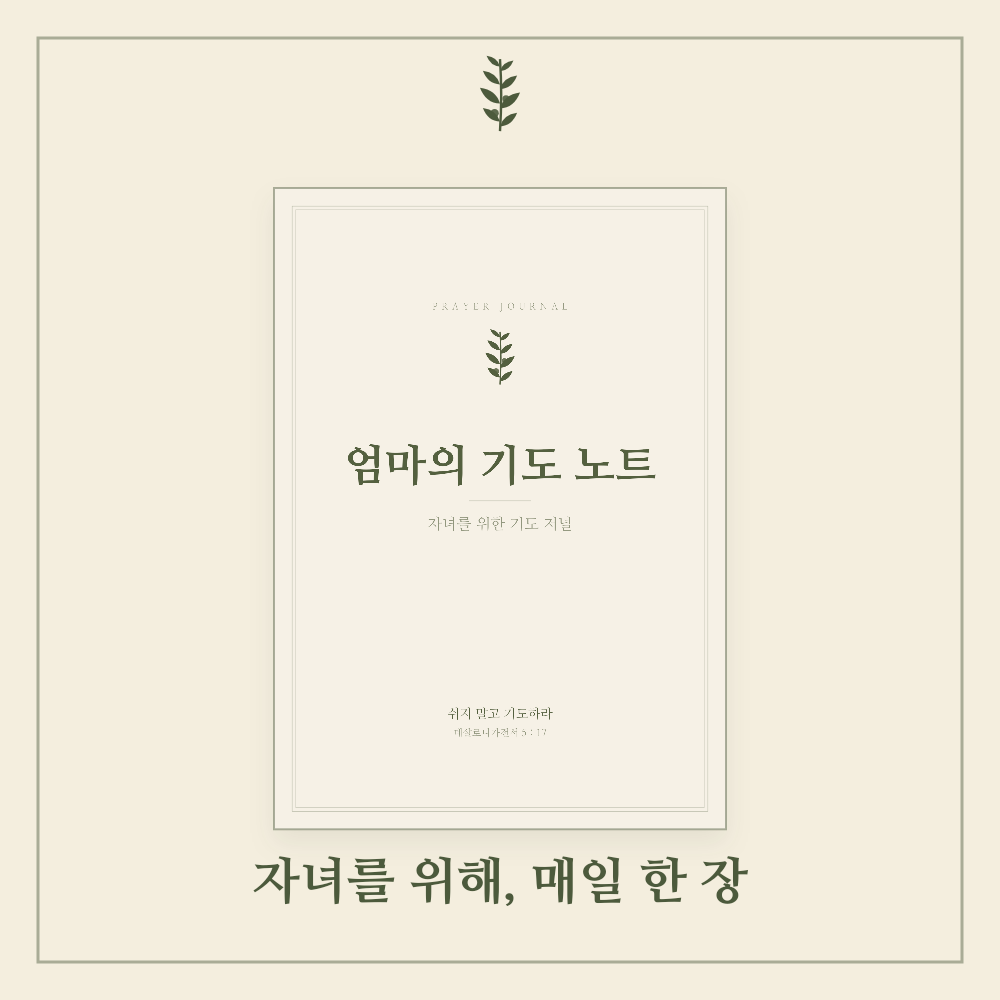
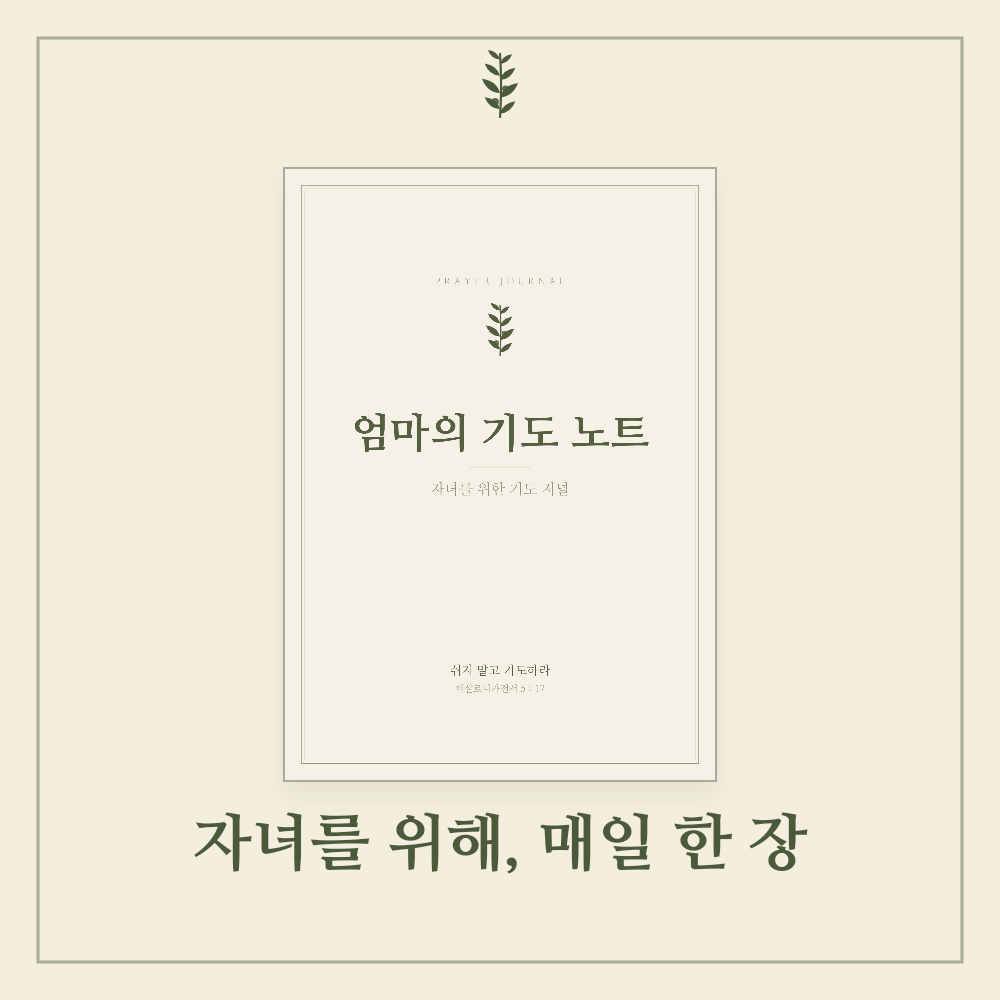
fix(design): 썸네일 v4 — 모바일 가독성 위해 보조 글씨 확대
T1 부제 50→62, T4 요약 35→40·캡션 28→38(짧은 라벨), T5 알약 30→36.
표지 사진은 프레임 안으로 유지. 폰 목록 크기에서도 핵심 텍스트 가독.

diff --git a/assets/bible-journal/generate_thumbs.js b/assets/bible-journal/generate_thumbs.js
@@ -56,9 +56,9 @@ function sprig(x, cx, topY, scale, color) {
   const reading = await loadImage(`${D}/p_reading_ot.png`);
 
   // T1 — 대표 (product hero; title readable on cover)
-  { const { c, x } = P(CREAM); frame(x, 38, 'rgba(76,90,60,0.45)', 3); sprig(x, S / 2, 58, .6, INK);
-    shot(x, cover, S / 2, 188, 452);
-    multi(x, '자녀를 위해, 매일 한 장', S / 2, 868, 50, 'NMX', INK, 60);
+  { const { c, x } = P(CREAM); frame(x, 38, 'rgba(76,90,60,0.45)', 3); sprig(x, S / 2, 52, .54, INK);
+    shot(x, cover, S / 2, 168, 432);
+    multi(x, '자녀를 위해, 매일 한 장', S / 2, 828, 62, 'NMX', INK, 74);
     fs.writeFileSync(`${D}/thumb_1_main.png`, c.toBuffer('image/png')); }
 
   // T2 — 후킹 (deep green, all fresh text, no small cover)
@@ -77,21 +77,21 @@ function sprig(x, cx, topY, scale, color) {
     fs.writeFileSync(`${D}/thumb_3_feature.png`, c.toBuffer('image/png')); }
 
   // T4 — 구성: 페이지 컷 + 각 컷 아래 큰 캡션
-  { const { c, x } = P(PANEL); multi(x, '이 한 권에 담긴 것', S / 2, 86, 56, 'NMX', INK, 70);
-    multi(x, '기도 92편 · 응답 기록 · 통독표 · 약 110p', S / 2, 232, 35, 'NMB', STRONG, 56);
-    const w = 232, gap = 44, total = w * 3 + gap * 2, x0 = (S - total) / 2, ty = 410;
-    const labels = ['자녀를 위한 기도', '기도 응답 기록', '성경 통독표'];
+  { const { c, x } = P(PANEL); multi(x, '이 한 권에 담긴 것', S / 2, 84, 58, 'NMX', INK, 72);
+    multi(x, '기도 92편 · 응답 기록 · 통독표 · 약 110p', S / 2, 240, 40, 'NMB', STRONG, 56);
+    const w = 226, gap = 46, total = w * 3 + gap * 2, x0 = (S - total) / 2, ty = 374;
+    const labels = ['자녀 기도', '응답 기록', '성경 통독표'];
     [daily, log, reading].forEach((im, i) => {
       const cx = x0 + w / 2 + i * (w + gap); const h = shot(x, im, cx, ty, w);
-      multi(x, labels[i], cx, ty + h + 26, 28, 'NMB', INK, 36);
+      multi(x, labels[i], cx, ty + h + 28, 38, 'NMB', INK, 46);
     });
     fs.writeFileSync(`${D}/thumb_4_inside.png`, c.toBuffer('image/png')); }
 
   // T5 — 선물 (cover sized within frame)
   { const { c, x } = P(CREAM); frame(x, 38, 'rgba(76,90,60,0.4)', 3); sprig(x, S / 2, 70, .56, INK);
-    multi(x, '믿음의 엄마에게\n드리는 선물', S / 2, 188, 58, 'NMX', INK, 80);
-    pill(x, '권사님께 · 며느리에게 · 나에게', S / 2, 372, 30, INK, CTXT);
-    shot(x, cover, S / 2, 470, 300);
+    multi(x, '믿음의 엄마에게\n드리는 선물', S / 2, 178, 60, 'NMX', INK, 82);
+    pill(x, '권사님께 · 며느리에게 · 나에게', S / 2, 358, 36, INK, CTXT);
+    shot(x, cover, S / 2, 482, 300);
     fs.writeFileSync(`${D}/thumb_5_gift.png`, c.toBuffer('image/png')); }
 
   console.log('DONE thumbnails 5 (v3)');
